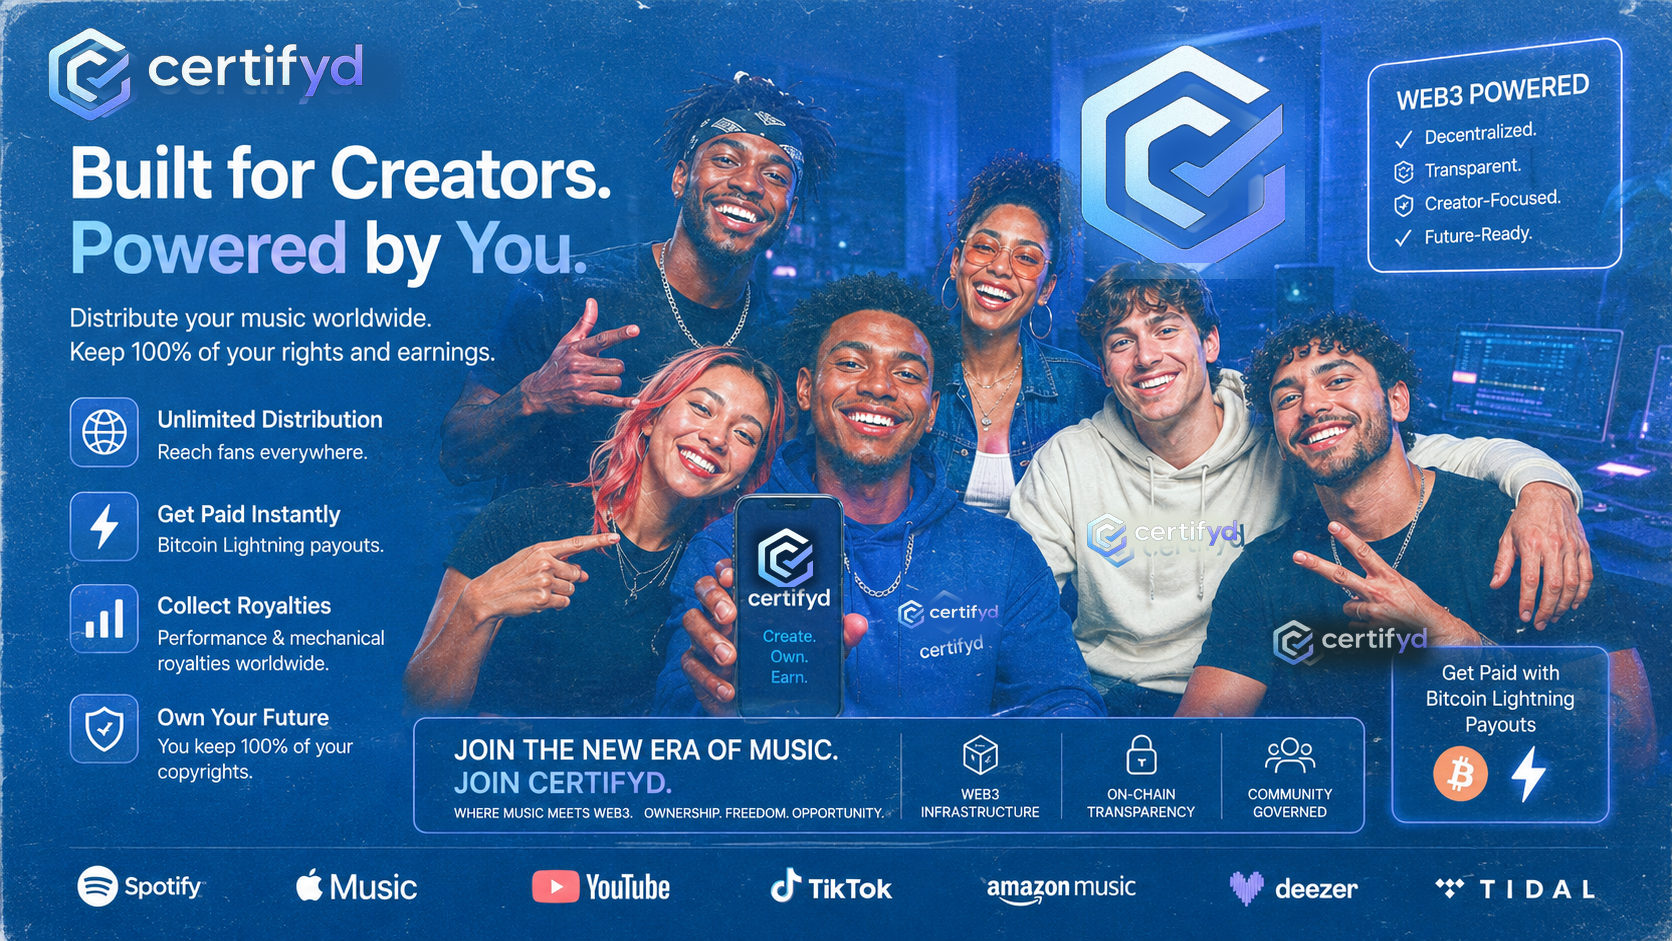
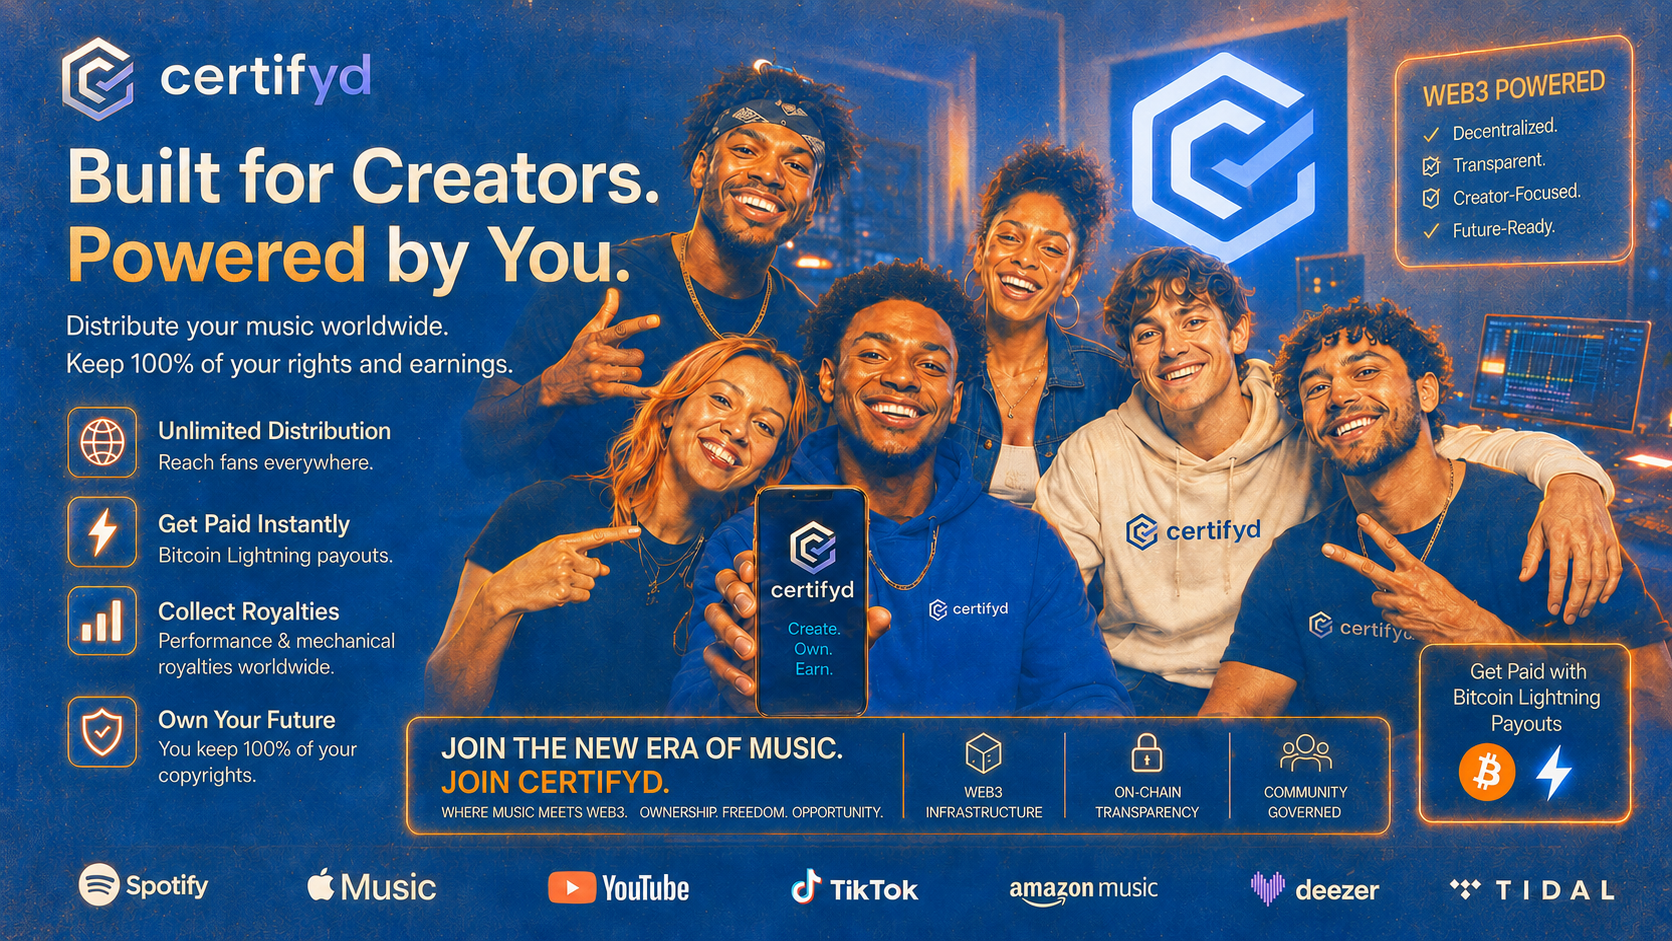
Use lo-fi IP promo image

diff --git a/index.html b/index.html
@@ -2507,7 +2507,7 @@ section[id]{
             <h3 class="distribution-card-title">Grow Your IP and Earnings Worldwide</h3>
             <p class="infra-subhead">Your music is more than content - it’s intellectual property with long-term value. Certifyd helps creators manage publishing, royalties, catalog performance, and long-term earnings while retaining creator rights.</p>
             <figure class="distribution-image-frame ip-group-grade card-media" style="--media-zoom:1; --media-fit:contain; --media-pos:center center;" aria-label="Team collaboration on intellectual property publishing strategy">
-              <img src="images/screenshots/ip-team-web3-20260601.png?v=20260601b" alt="Team reviewing publishing and intellectual property strategy around a laptop" loading="lazy" decoding="async" />
+              <img src="images/screenshots/ip-team-web3-20260601.png?v=20260601d" alt="Team reviewing publishing and intellectual property strategy around a laptop" loading="lazy" decoding="async" />
             </figure>
           </div>
         </div>
